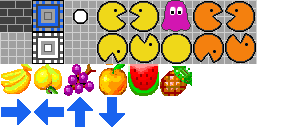
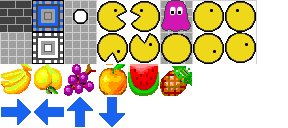
on the way implementing mouth animation of pacman

Changed region(s): [[0.6562, 0.0, 0.9062, 0.5], [0.3125, 0.0, 0.5625, 0.5]]

diff --git a/Punktefresser/main.cpp b/Punktefresser/main.cpp
@@ -3,10 +3,15 @@
 
 Texture mainTexture("assets/tiles.png");
 
-Tile tilePlayerLookingTop(&mainTexture, 128, 32, 32, 32);
-Tile tilePlayerLookingBot(&mainTexture, 96, 32, 32, 32);
-Tile tilePlayerLookingLeft(&mainTexture, 128, 0, 32, 32);
-Tile tilePlayerLookingRight(&mainTexture, 96, 0, 32, 32);
+Tile tilePlayerLookingTopMouthOpen(&mainTexture, 128+1, 32+1, 32-1, 32-1);
+Tile tilePlayerLookingBotMouthOpen(&mainTexture, 96+1, 32+1, 32-1, 32-1);
+Tile tilePlayerLookingLeftMouthOpen(&mainTexture, 128+1, 0+1, 32-1, 32-1);
+Tile tilePlayerLookingRightMouthOpen(&mainTexture, 96+1, 0+1, 32-1, 32-1);
+
+Tile tilePlayerLookingTopMouthClosed(&mainTexture, 192+1, 32+1, 32-1, 32-1);
+Tile tilePlayerLookingBotMouthClosed(&mainTexture, 160+1, 32+1, 32-1, 32-1);
+Tile tilePlayerLookingLeftMouthClosed(&mainTexture, 192+1, 0+1, 32-1, 32-1);
+Tile tilePlayerLookingRightMouthClosed(&mainTexture, 160+1, 0+1, 32-1, 32-1);
 
 Tile tileEnemy(&mainTexture, 160, 0, 32, 32);
 
@@ -33,48 +38,108 @@ enum class Direction {
 class Pacman : public Entity {
 
 public:
-    Pacman(float x, float y, Tile* tileTop, Tile* tileBot, Tile* tileLeft, Tile* tileRight) : Entity(x, y) {
+    Pacman(float x, float y) : Entity(x, y) {
 
-        this->tileTop = tileTop;
-        this->tileBot = tileBot;
-        this->tileLeft = tileLeft;
-        this->tileRight = tileRight;
-
-        this->currentTile = tileRight;
+        this->currentTile = &tilePlayerLookingRightMouthOpen;
+        this->currentDirection = Direction::DIR_RIGHT;
     }
 
     Tile* getTile() {
         return currentTile;
     }
 
-    void move(Direction direction) {
+    void changeDirection(Direction direction) {
 
         switch(direction) {
 
             case Direction::DIR_TOP:
-                currentTile = tileTop;
+                currentTile = &tilePlayerLookingTopMouthOpen;
                 break;
 
             case Direction::DIR_BOT:
-                currentTile = tileBot;
+                currentTile = &tilePlayerLookingBotMouthOpen;
                 break;
 
             case Direction::DIR_LEFT:
-                currentTile = tileLeft;
+                currentTile = &tilePlayerLookingLeftMouthOpen;
                 break;
 
             case Direction::DIR_RIGHT:
-                currentTile = tileRight;
+                currentTile = &tilePlayerLookingRightMouthOpen;
+                break;
+        }
+
+        currentDirection = direction;
+    }
+
+    void move() {
+
+        stepsTaken++;
+        bool needReassignTile = false;
+        if(stepsTaken == 30) {
+            mouthClosed = !mouthClosed;
+            stepsTaken = 0;
+            needReassignTile = true;
+        }
+
+        switch(currentDirection) {
+
+            case Direction::DIR_TOP:
+                setY(getY() - 1);
+                if(needReassignTile) {
+                    if(mouthClosed) {
+                        currentTile = &tilePlayerLookingTopMouthClosed;
+                    }
+                    else {
+                        currentTile = &tilePlayerLookingTopMouthOpen;
+                    }
+                }
+                break;
+
+            case Direction::DIR_BOT:
+                setY(getY() + 1);
+                if(needReassignTile) {
+                    if(mouthClosed) {
+                        currentTile = &tilePlayerLookingBotMouthClosed;
+                    }
+                    else {
+                        currentTile = &tilePlayerLookingBotMouthOpen;
+                    }
+                }
+                break;
+
+            case Direction::DIR_LEFT:
+                setX(getX() - 1);
+                if(needReassignTile) {
+                    if(mouthClosed) {
+                        currentTile = &tilePlayerLookingLeftMouthClosed;
+                    }
+                    else {
+                        currentTile = &tilePlayerLookingLeftMouthOpen;
+                    }
+                }
+                break;
+
+            case Direction::DIR_RIGHT:
+                setX(getX() + 1);
+                if(needReassignTile) {
+                    if(mouthClosed) {
+                        currentTile = &tilePlayerLookingRightMouthClosed;
+                    }
+                    else {
+                        currentTile = &tilePlayerLookingRightMouthOpen;
+                    }
+                }
                 break;
         }
     }
 
 private:
-    Tile* tileTop;
-    Tile* tileBot;
-    Tile* tileLeft;
-    Tile* tileRight;
     Tile* currentTile;
+
+    int stepsTaken = 0;
+    bool mouthClosed = false;
+    Direction currentDirection;
 };
 
 class Wall : public Entity {
@@ -163,12 +228,11 @@ void renderMap(Window window, LevelMap levelMap) {
 
                 case Field::PLAYER:
                     if(pacman == NULL) {
-                        pacman = new Pacman(column * 32, row *32, &tilePlayerLookingTop, &tilePlayerLookingBot, &tilePlayerLookingLeft, &tilePlayerLookingRight);
+                        pacman = new Pacman(column * 32, row *32);
                         entity = pacman;
                     }
                     else {
-                        entity = new Background(column * 32, row *32, &tileNormalBackground);
-                        ERROR("PANIC, second player detected!!! OMG :O")
+                        entity = pacman;
                     }
                     break;
 
@@ -203,6 +267,8 @@ int main(int argc, char** argv) {
     bool running = true;
     Timer timer;
 
+    int MAX_WAITING_TIME_PACMAN = 2;
+    int waitingTimePacman = MAX_WAITING_TIME_PACMAN;
     while (running) {
 
         // render entities
@@ -210,20 +276,22 @@ int main(int argc, char** argv) {
 
         renderMap(window, levelMap);
 
+        window.renderEntity(pacman);
+
         // input
         while (inputHandler.pollEvent()) {
 
             if (inputHandler.isKeyPressed(SDLK_w)) {
-                pacman->move(Direction::DIR_TOP);
+                pacman->changeDirection(Direction::DIR_TOP);
             }
             if (inputHandler.isKeyPressed(SDLK_s)) {
-                pacman->move(Direction::DIR_BOT);
+                pacman->changeDirection(Direction::DIR_BOT);
             }
             if (inputHandler.isKeyPressed(SDLK_a)) {
-                pacman->move(Direction::DIR_LEFT);
+                pacman->changeDirection(Direction::DIR_LEFT);
             }
             if (inputHandler.isKeyPressed(SDLK_d)) {
-                pacman->move(Direction::DIR_RIGHT);
+                pacman->changeDirection(Direction::DIR_RIGHT);
             }
 
             if (inputHandler.isQuitEvent()) {
@@ -232,6 +300,12 @@ int main(int argc, char** argv) {
             }
         }
         // update
+
+        waitingTimePacman--;
+        if(waitingTimePacman == 0) {
+            pacman->move();
+            waitingTimePacman = MAX_WAITING_TIME_PACMAN;
+        }
 
         window.update();
         timer.sleep(8);

diff --git a/Punktefresser/LevelMap.cpp b/Punktefresser/LevelMap.cpp
@@ -63,7 +63,3 @@ LevelMap LevelMap::load(const char *path) {
     filestream.close();
     return LevelMap(rowCount, colCount, fields);
 }
-
-LevelMap::~Field() {
-    delete fieldMap;
-}

diff --git a/Punktefresser/include/LevelMap.h b/Punktefresser/include/LevelMap.h
@@ -24,8 +24,6 @@ public:
         return fieldAt(row, col);
     }
 
-    ~Field();
-
 private:
     int rowCount;
     int columnCount;
